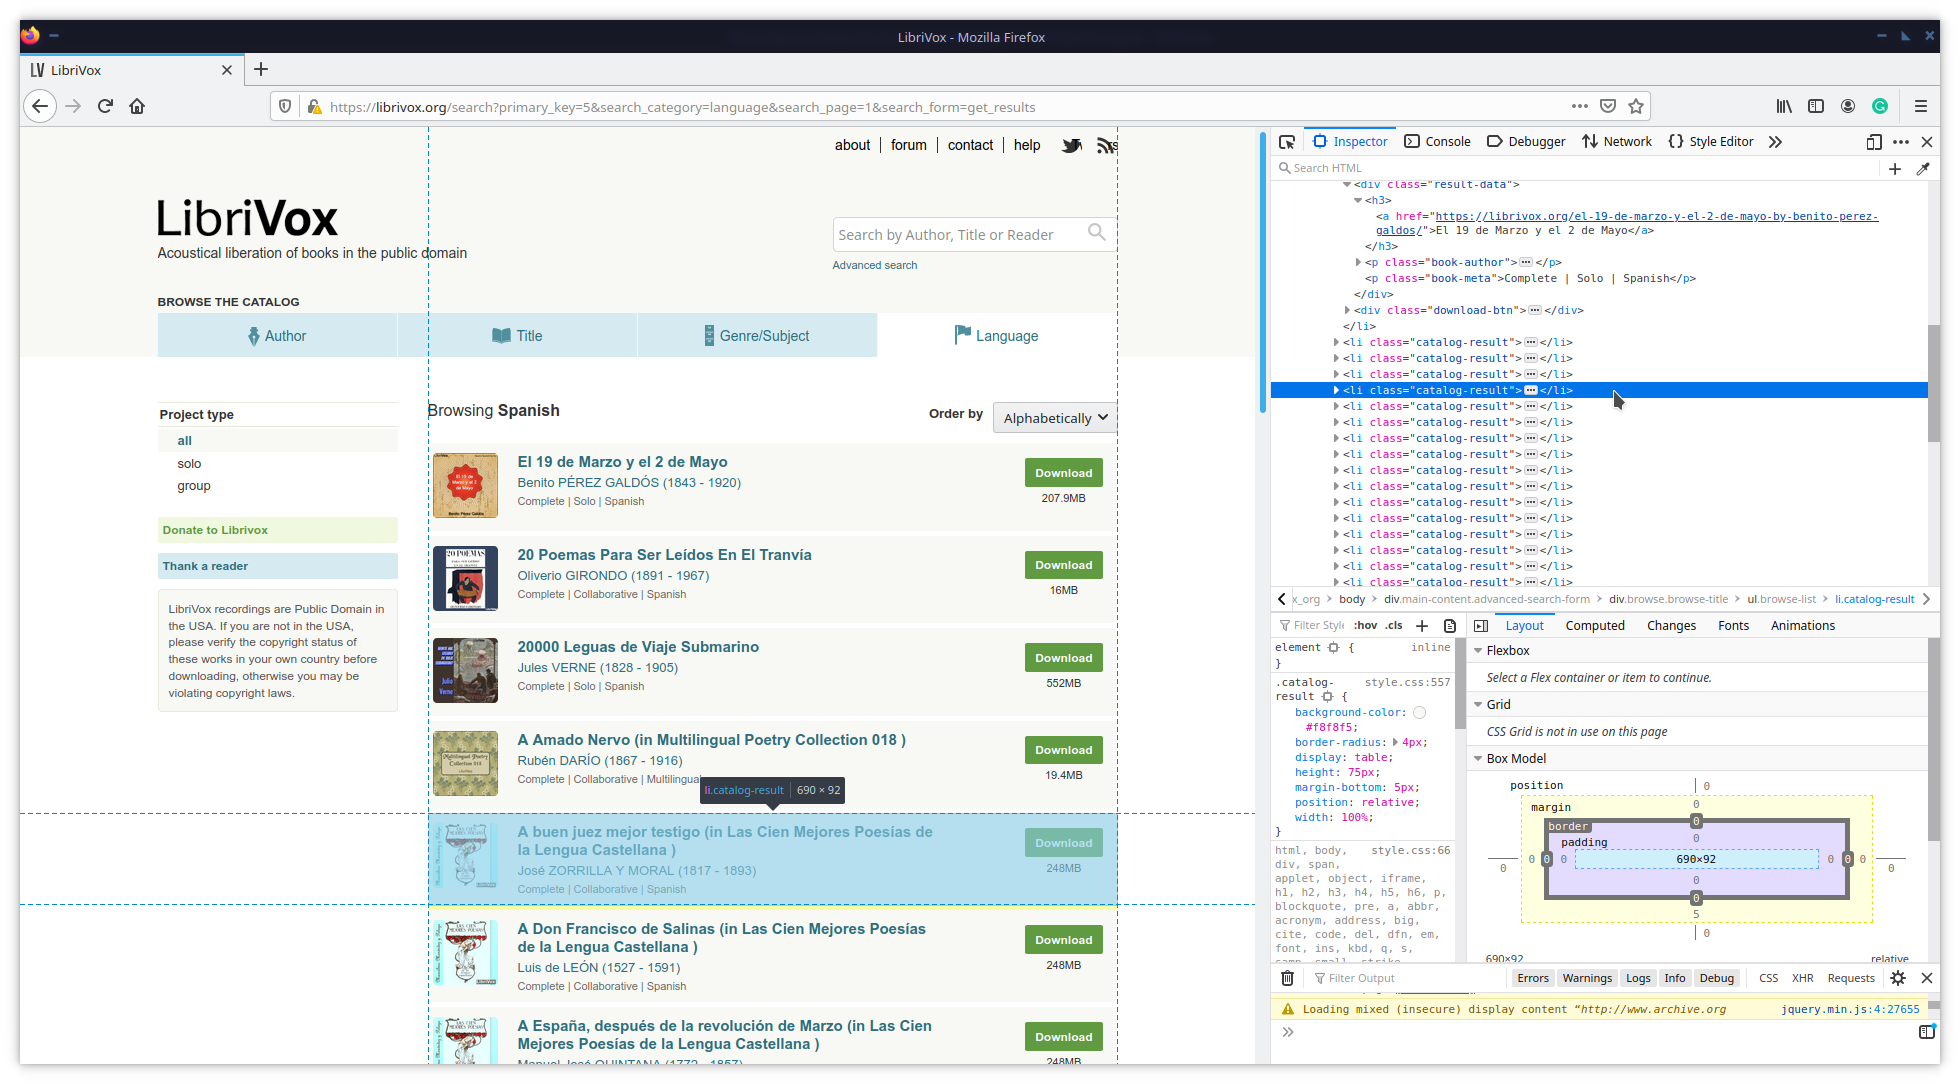
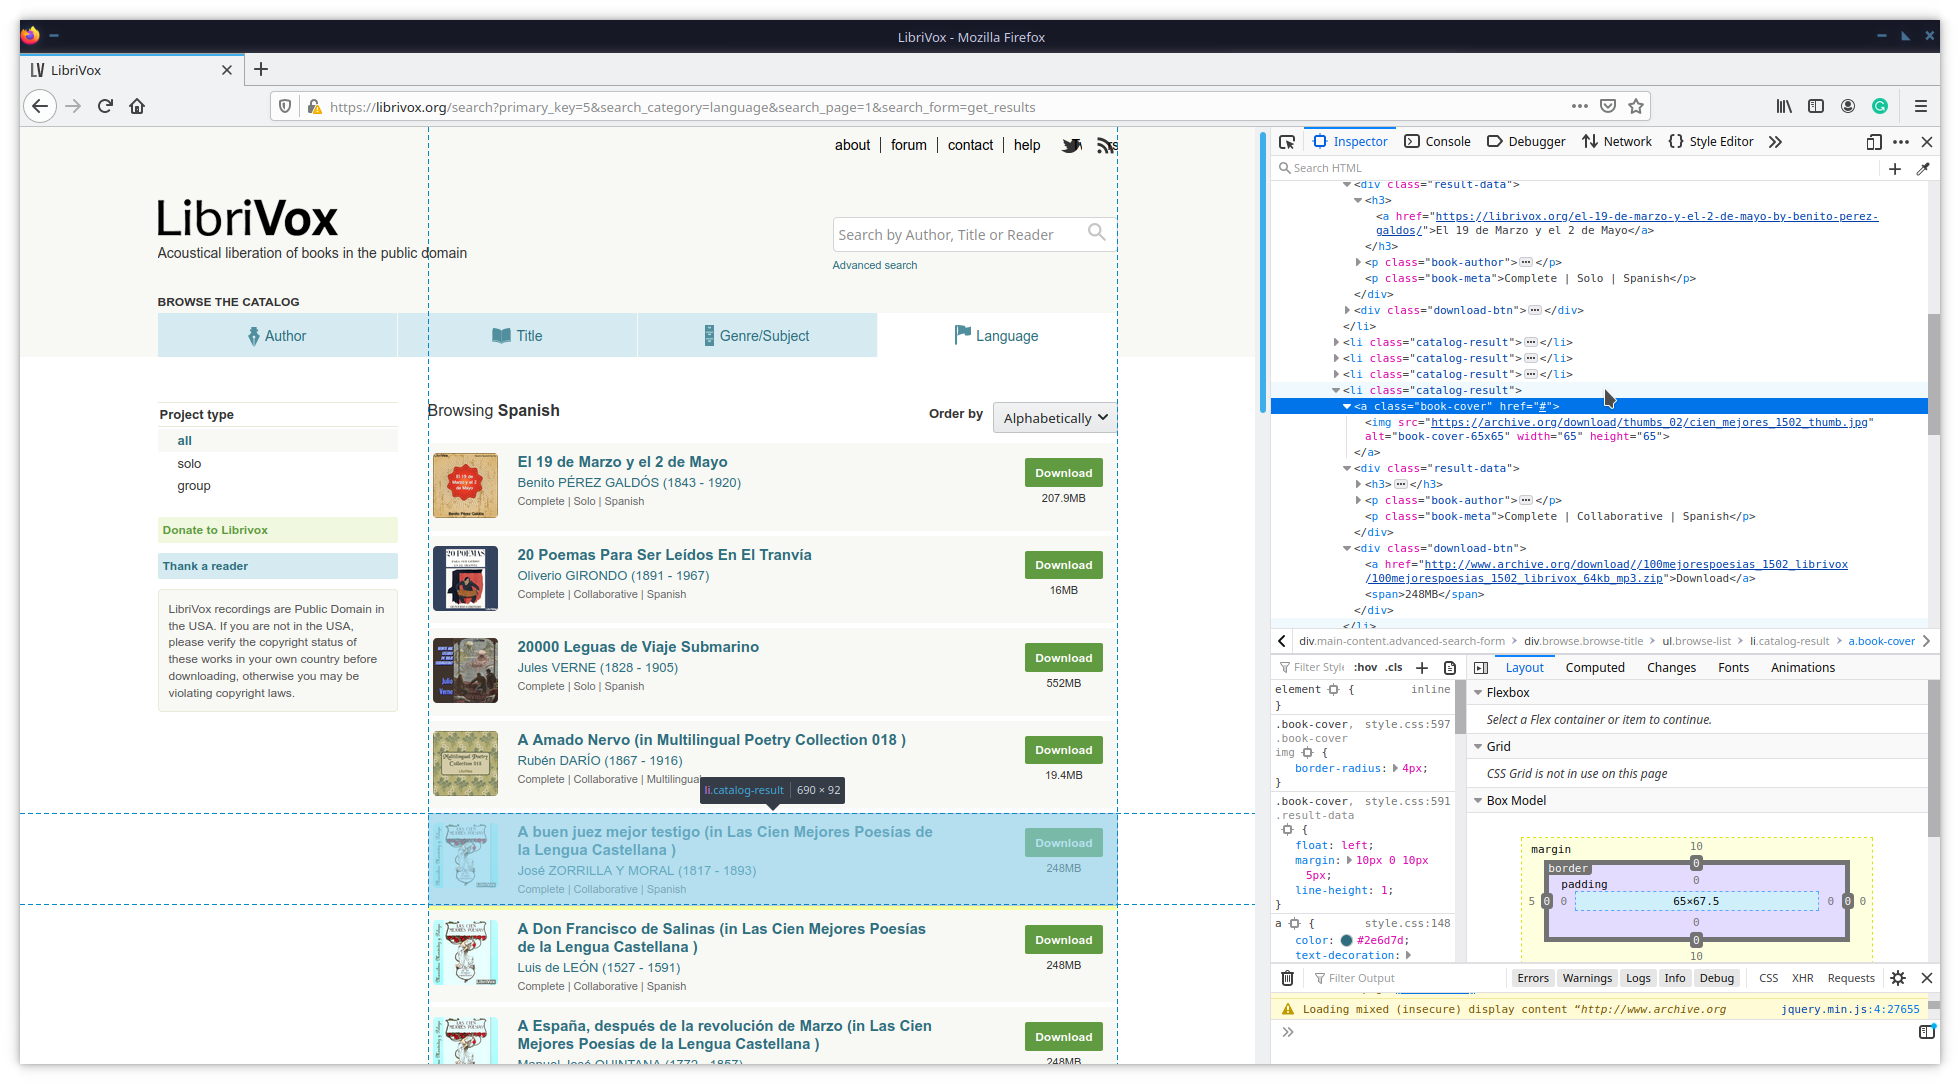
New commit

Changed region(s): [[0.6536, 0.3349, 0.9959, 0.9133]]

diff --git a/chapters/dataGathering.tex b/chapters/dataGathering.tex
@@ -91,14 +91,39 @@ De esta información se pueden extraer que existen varios tipos de información 
 	\item \textbf{search\_page} este campo representa la página actual de búsqueda. Por consiguiente para cambiar de página dentro del mismo idioma se debe ir incrementando este número
 \end{itemize}
 \subsubsection{Análisis del sitio web con herramientas de desarrollador}
+El siguiente paso consiste en analizar cómo están la información en la paǵina web. En este caso, la lista de resultados la devuelve un JavaScript que tarda unos segundos en cargar. Después de la carga se puede empezar a analizar el contenido como muestra la figura \ref{fig: librivox_inspect}
 \begin{figure}[ht!]
 	\centering
 	\resizebox{\textwidth}{!}{
 		\includegraphics[width=\columnwidth]{figures/LibriVox_inspect.png}
 	}      
-	\caption{LibriVox página principal}
+	\caption{LibriVox analizado con el inspector de Firefox}
 	\label{fig: librivox_inspect}
 \end{figure}
+
+\begin{lstlisting}[basicstyle=\tiny\ttfamily, language=html, caption={Ejemplo de la información contenida para uno de los libros},captionpos=b, label={lst: librivox_book}]
+<li class="catalog-result">
+  <a href="#" class="book-cover">
+    <img src="https://archive.org/download/thumbs_02/cien_mejores_1502_thumb.jpg"
+       alt="book-cover-65x65" width="65" height="65">
+  </a>
+  <div class="result-data">
+    <h3>
+    <a href="https://librivox.org/las-cien-mejores-poesias-de-la-lengua-castellana-by-marcelino-menendez-y-pelayo/">
+      A buen juez mejor testigo (in Las Cien Mejores Poesías de la Lengua Castellana )
+    </a></h3>
+    <p class="book-author"> <a href="https://librivox.org/author/11155">José ZORRILLA Y MORAL (1817 - 1893)</a> </p>
+    <p class="book-meta"> Complete | Collaborative | Spanish</p>
+  </div>	
+  <div class="download-btn">
+    <a href="http://www.archive.org/download//100mejorespoesias_1502_librivox/100mejorespoesias_1502_librivox_64kb_mp3.zip">
+      Download
+    </a>
+    <span>248MB</span>
+  </div>
+</li>
+\end{lstlisting}
+Los datos de los libros que devuelve la búsqueda para dicha página se encuentran dentro de los bloques \textcolor{editorBlue}{$<$}\textcolor{editorPink}{li class}\textcolor{editorBlue}{=}\textcolor{editorPurple}{''catalog-result''}\textcolor{editorBlue}{$>$}. El ejemplo del contenido de uno de ellos se encuentra en el listado de código \ref{lst: librivox_book}. Se puede ver que hay mucha información sobre el libro, inclusive, la \gls{URL} de descarga del mismo.
 \subsubsection{Extracción y almacenamiento de la información}
 
 \section{Ruido}

diff --git a/TFM_IFFinazzi.tex b/TFM_IFFinazzi.tex
@@ -47,6 +47,34 @@
 %%%%%%%%%%%%%%%%%%%%%%%%%%%%%%%%%%%%%%
 %
 %
+%%%%%%%%%%% LISTINGS SETS %%%%%%%%%%%%
+\usepackage{color}
+\definecolor{editorLightGray}{cmyk}{0.05, 0.05, 0.05, 0.1}
+\definecolor{editorGray}{cmyk}{0.6, 0.55, 0.55, 0.2}
+\definecolor{editorPurple}{cmyk}{0.5, 1, 0, 0}
+\definecolor{editorWhite}{cmyk}{0, 0, 0, 0}
+\definecolor{editorBlack}{cmyk}{1, 1, 1, 1}
+\definecolor{editorOrange}{cmyk}{0, 0.8, 1, 0}
+\definecolor{editorBlue}{cmyk}{1, 0.6, 0, 0}
+\definecolor{editorPink}{cmyk}{0, 1, 0, 0}
+\lstset{
+	language=html,
+	tabsize=2,
+	%numbers=left,
+	%stepnumber=1,
+	%numbersep=10pt,
+	tagstyle=\color{editorBlue},
+	basicstyle={\small\ttfamily},
+	identifierstyle=\color{editorOrange},
+	keywordstyle=\color{editorPink},
+	commentstyle=\color{editorGray},
+	stringstyle=\color{editorPurple}
+}
+%
+%
+%%%%%%%%%%%%%%%%%%%%%%%%%%%%%%%%%%%%%%
+%
+%
 %%%%%%%%%%%% DOCUMENT %%%%%%%%%%%%%%%%
 \begin{document}
 	%\renewcommand{\abstractname}{Abstract}
